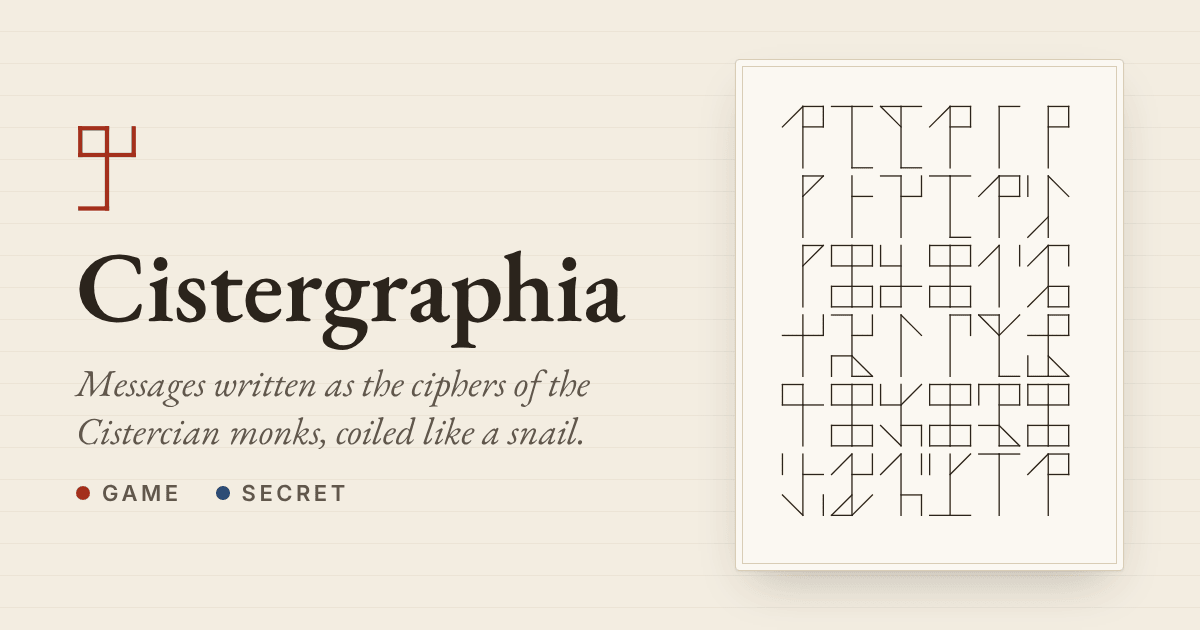
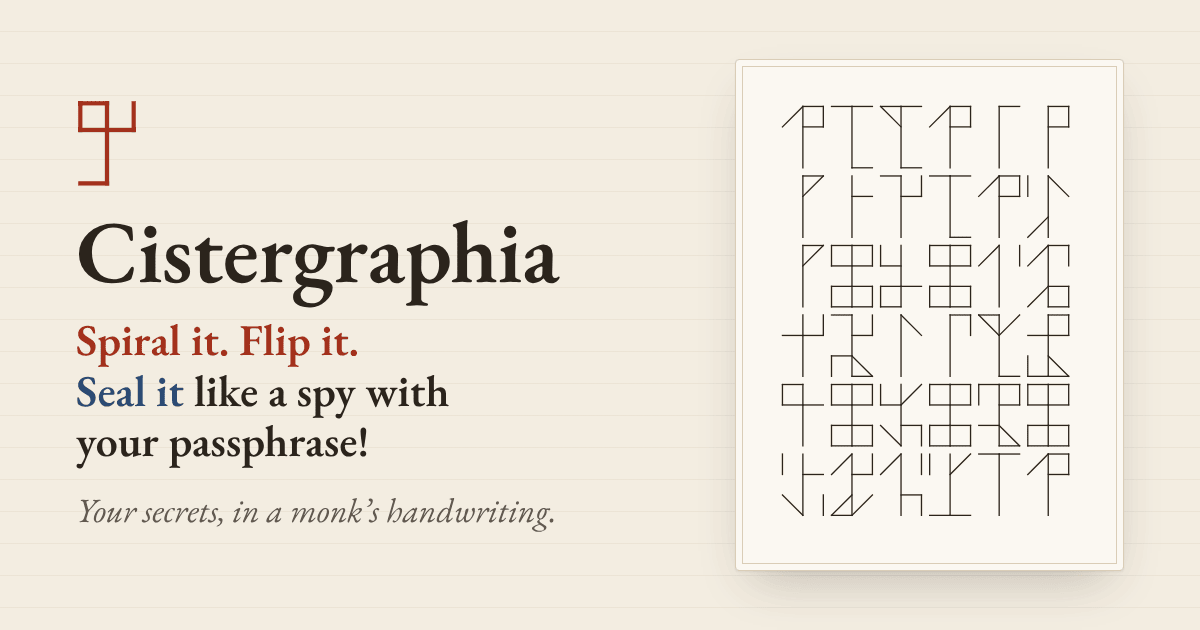
Tagline: Spiral it. Flip it. Seal it like a spy with your passphrase!
"Your secrets, in a monk's handwriting." follows it under the README's
title and on the social card (public/og.png, docs/social-preview.png,
regenerated with rake og:image). On the card, "Spiral it. Flip it." is in
the game's red and "Seal it" in the secret's blue, the app's two inks; each
sentence is balanced so no word is left alone on a line. The Game/Secret
row is gone: the tagline says it. og:image:alt describes the new card.

Claude-Session: https://claude.ai/code/session_01MHbzLy4KC92hgoHUmKepG4

Changed region(s): [[0.0617, 0.1508, 0.5242, 0.8444]]

diff --git a/README.md b/README.md
@@ -1,6 +1,9 @@
 Cistergraphia
 =============
 
+**Spiral it. Flip it. Seal it like a spy with your passphrase!**
+*Your secrets, in a monk's handwriting.*
+
 About
 -----
 
